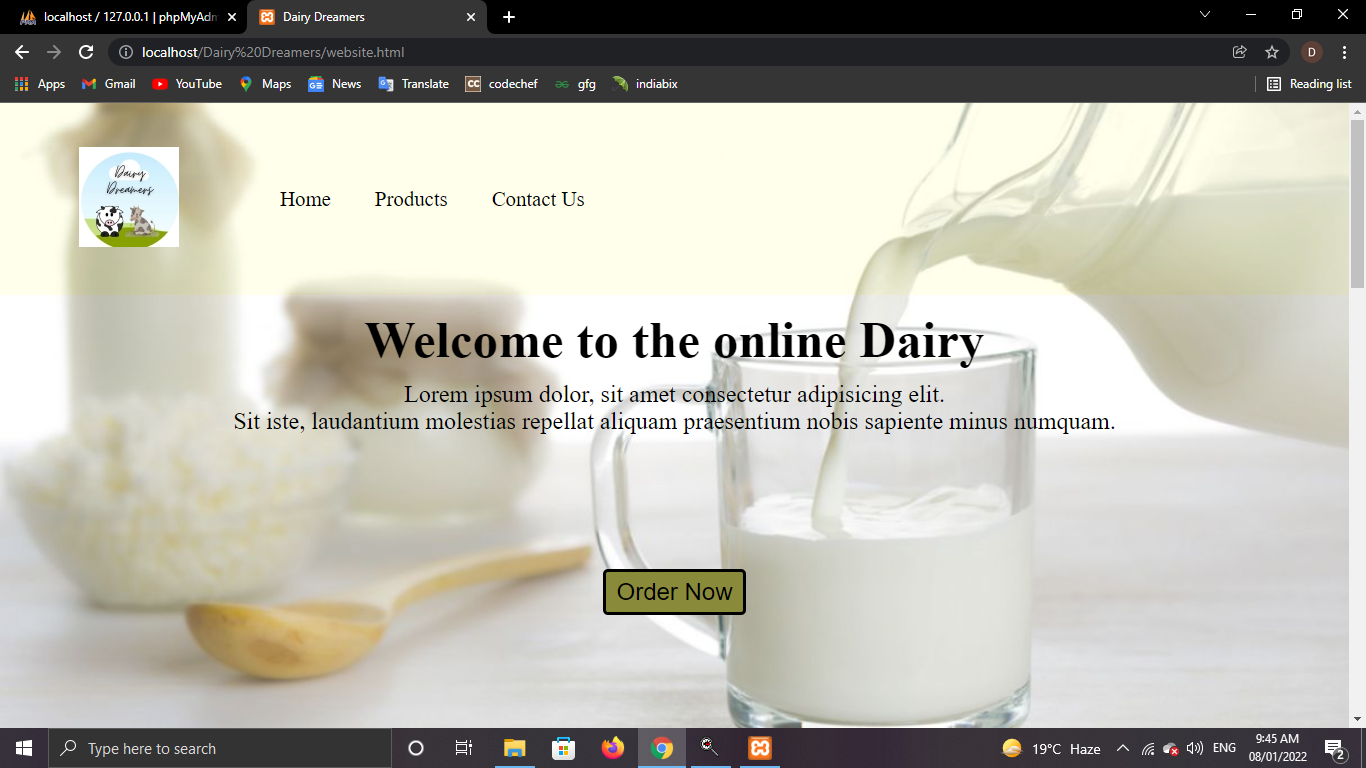
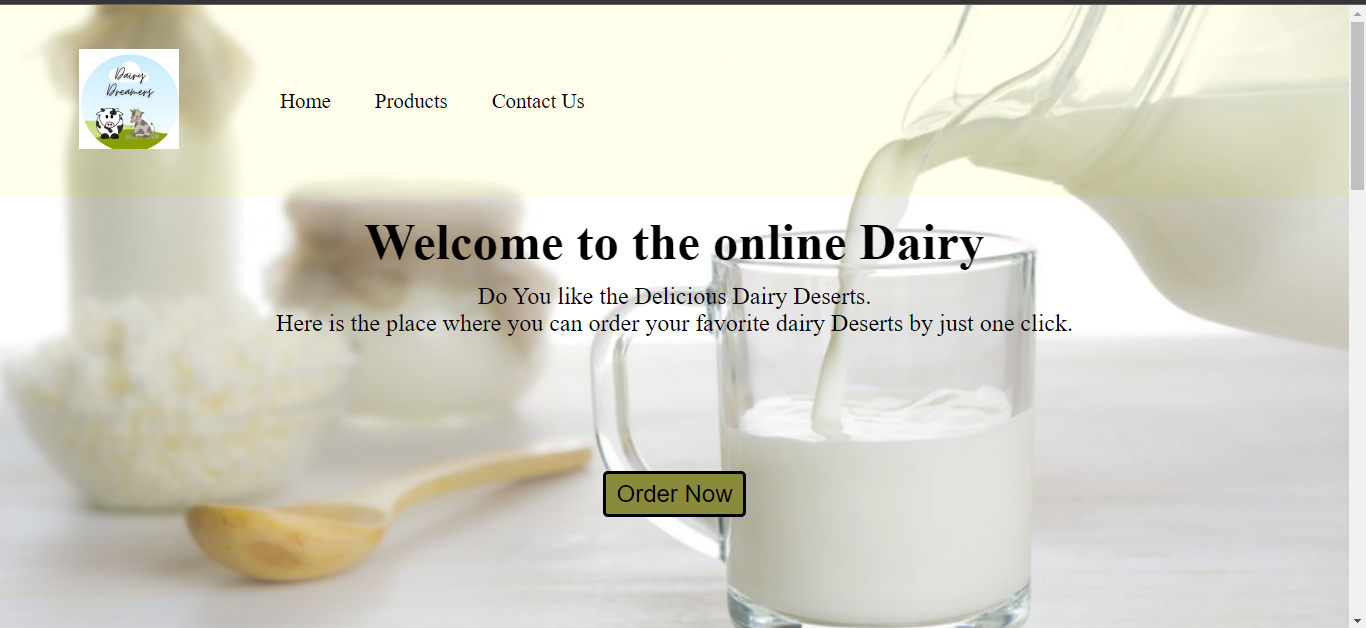
Add files via upload

diff --git a/website.html b/website.html
@@ -20,8 +20,8 @@
         </nav>
         <section id="home">
             <h1 class="h-primary">Welcome to the online Dairy</h1>
-            <p>Lorem ipsum dolor, sit amet consectetur adipisicing elit. </p>
-            <p>Sit iste, laudantium molestias repellat aliquam praesentium nobis sapiente minus numquam.</p>
+            <p>Do You like the Delicious Dairy Deserts. </p>
+            <p>Here is the place where you can order your favorite dairy Deserts by just one click.</p>
             <button class="btn"><a href="#"" class='products'></a>Order Now</button>
         </section>
         <section class="products">
